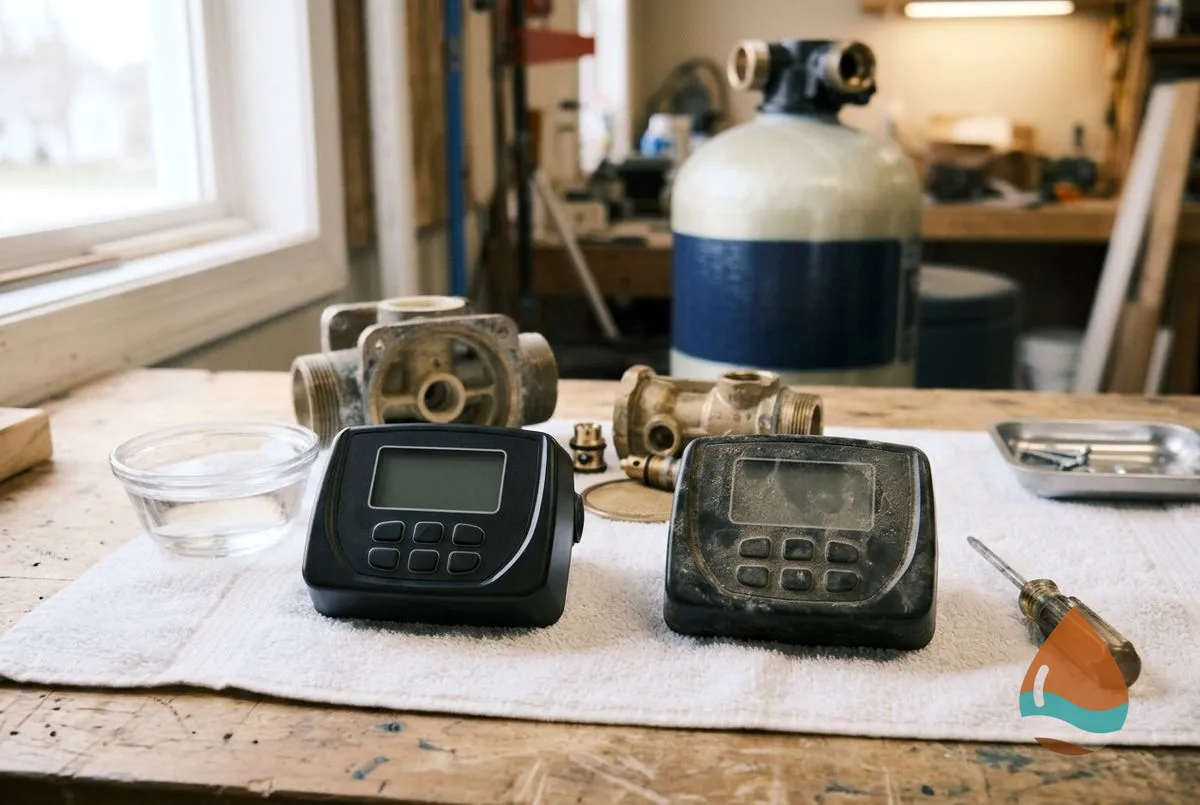
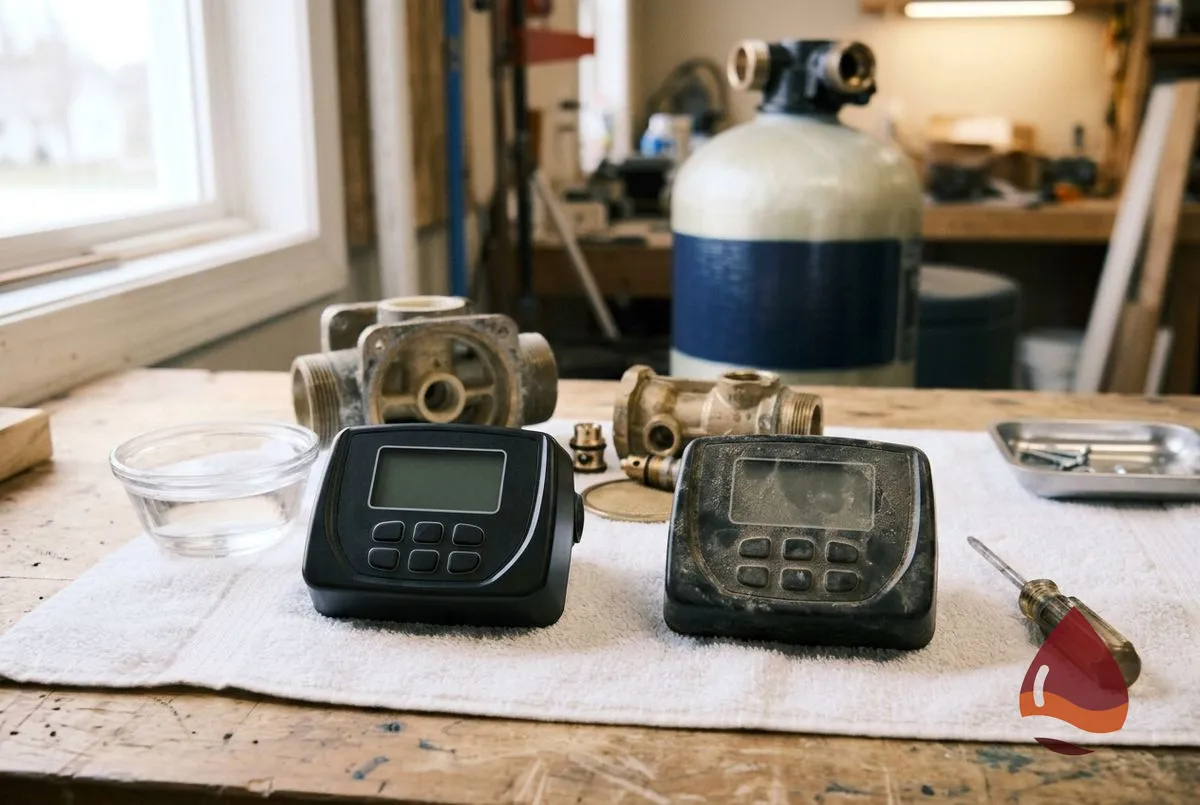
style(albuquerque): restamp repair card photos with the new-palette mark

Changed region(s): [[0.8325, 0.7453, 0.9558, 0.9317]]

diff --git a/LAUNCH-CHECKLIST.md b/LAUNCH-CHECKLIST.md
@@ -1,4 +1,4 @@
-# Launch checklist (generated 2026-10-22)
+# Launch checklist (generated 2026-10-23)
 
 Generated by `npm run import-content` from C:/Users/lenevo/Local-SEO-Toolkit/data/albuquerquewatersoftener.
 Do not publish while any item below is open. Markers show on the site as highlighted text.
